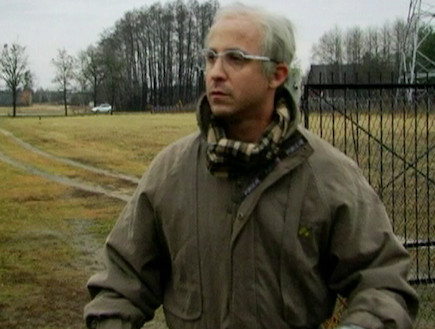
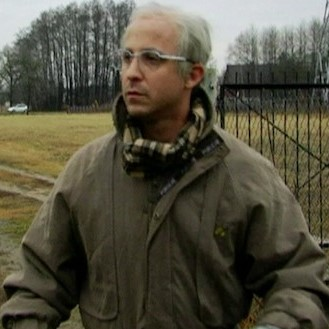
#8 Resized images to be squares
also minor design changes

diff --git a/index.html b/index.html
@@ -53,7 +53,7 @@
 
                     </div>
                     <div class="col p-4">
-                        <img class="img-fluid rounded mx-auto d-block" src="./assets/shauli.jpg" alt="">
+                        <img id="personal-img" class="img-fluid rounded mx-auto d-block" src="./assets/shauli.jpg" alt="">
                     </div>
                 </div>
             </div>
@@ -88,13 +88,13 @@
 
                             <div class="p-3">
                                 <iframe src="https://www.google.com/maps/embed?pb=!1m18!1m12!1m3!1d3410.5005290945633!2d35.213366214547605!3d31.262247381455737!2m3!1f0!2f0!3f0!3m2!1i1024!2i768!4f13.1!3m3!1m2!1s0x15030002069b9449%3A0xf1c474b42e4e2b0!2sOrt%20Arad%20High%20school!5e0!3m2!1sen!2sil!4v1618251080886!5m2!1sen!2sil"
-                                    width="350" height="200" style="border:0;" allowfullscreen="" loading="lazy"></iframe>
+                                    allowfullscreen="" loading="lazy"></iframe>
                                 <p class="card-text mb-auto">Ort Arad - High school education</p>
                                 <p class="text-muted mb-auto">2000-2006</p>
                             </div>
                             <div class="p-3">
                                 <iframe src="https://www.google.com/maps/embed?pb=!1m18!1m12!1m3!1d3401.544797061989!2d34.5947883!3d31.5091937!2m3!1f0!2f0!3f0!3m2!1i1024!2i768!4f13.1!3m3!1m2!1s0x1502814a96e693ed%3A0xd2f92addc3834b6c!2z15TXnteb15zXnNeUINeU15DXp9eT157XmdeqINeh16TXmdeo!5e0!3m2!1sen!2sil!4v1618251821670!5m2!1sen!2sil"
-                                    width="350" height="200" style="border:0;" allowfullscreen="" loading="lazy"></iframe>
+                                    allowfullscreen="" loading="lazy"></iframe>
                                 <p class="card-text mb-auto">Sapir College - Bs.c Computer Science</p>
                                 <p class="text-muted mb-auto">2019 - present</p>
                             </div>
@@ -189,7 +189,7 @@
     <footer class="footer">
         <div class="container d-flex flex-row justify-content-between">
             <div>
-                <span>&#169;All Rights Reserved To <a href="https://github.com/omer21104" target="_blank">Omer Zano</a> && <a href="https://github.com/GalAloush" target="_blank">Gal Aloush</a></span>
+                <span class="small text-muted">&#169;All Rights Reserved To <a href="https://github.com/omer21104" target="_blank">Omer Zano</a> && <a href="https://github.com/GalAloush" target="_blank">Gal Aloush</a></span>
             </div>
             <div>
                 <span><a href="https://www.youtube.com/watch?v=dQw4w9WgXcQ?autoplay=1" target="_blank"><img class="icon-img" src="./assets/facebook-icon.png" alt="facebook"></a></span>

diff --git a/styles.css b/styles.css
@@ -3,6 +3,15 @@
     width: 500px;
 }
 
+#personal-img {
+    margin-top: 25%;
+    max-width: 95%;
+}
+iframe {
+    height: 200px;
+    border: 0;
+}
+
 .thumbnail {
     max-width: 100%;
     height: auto;
